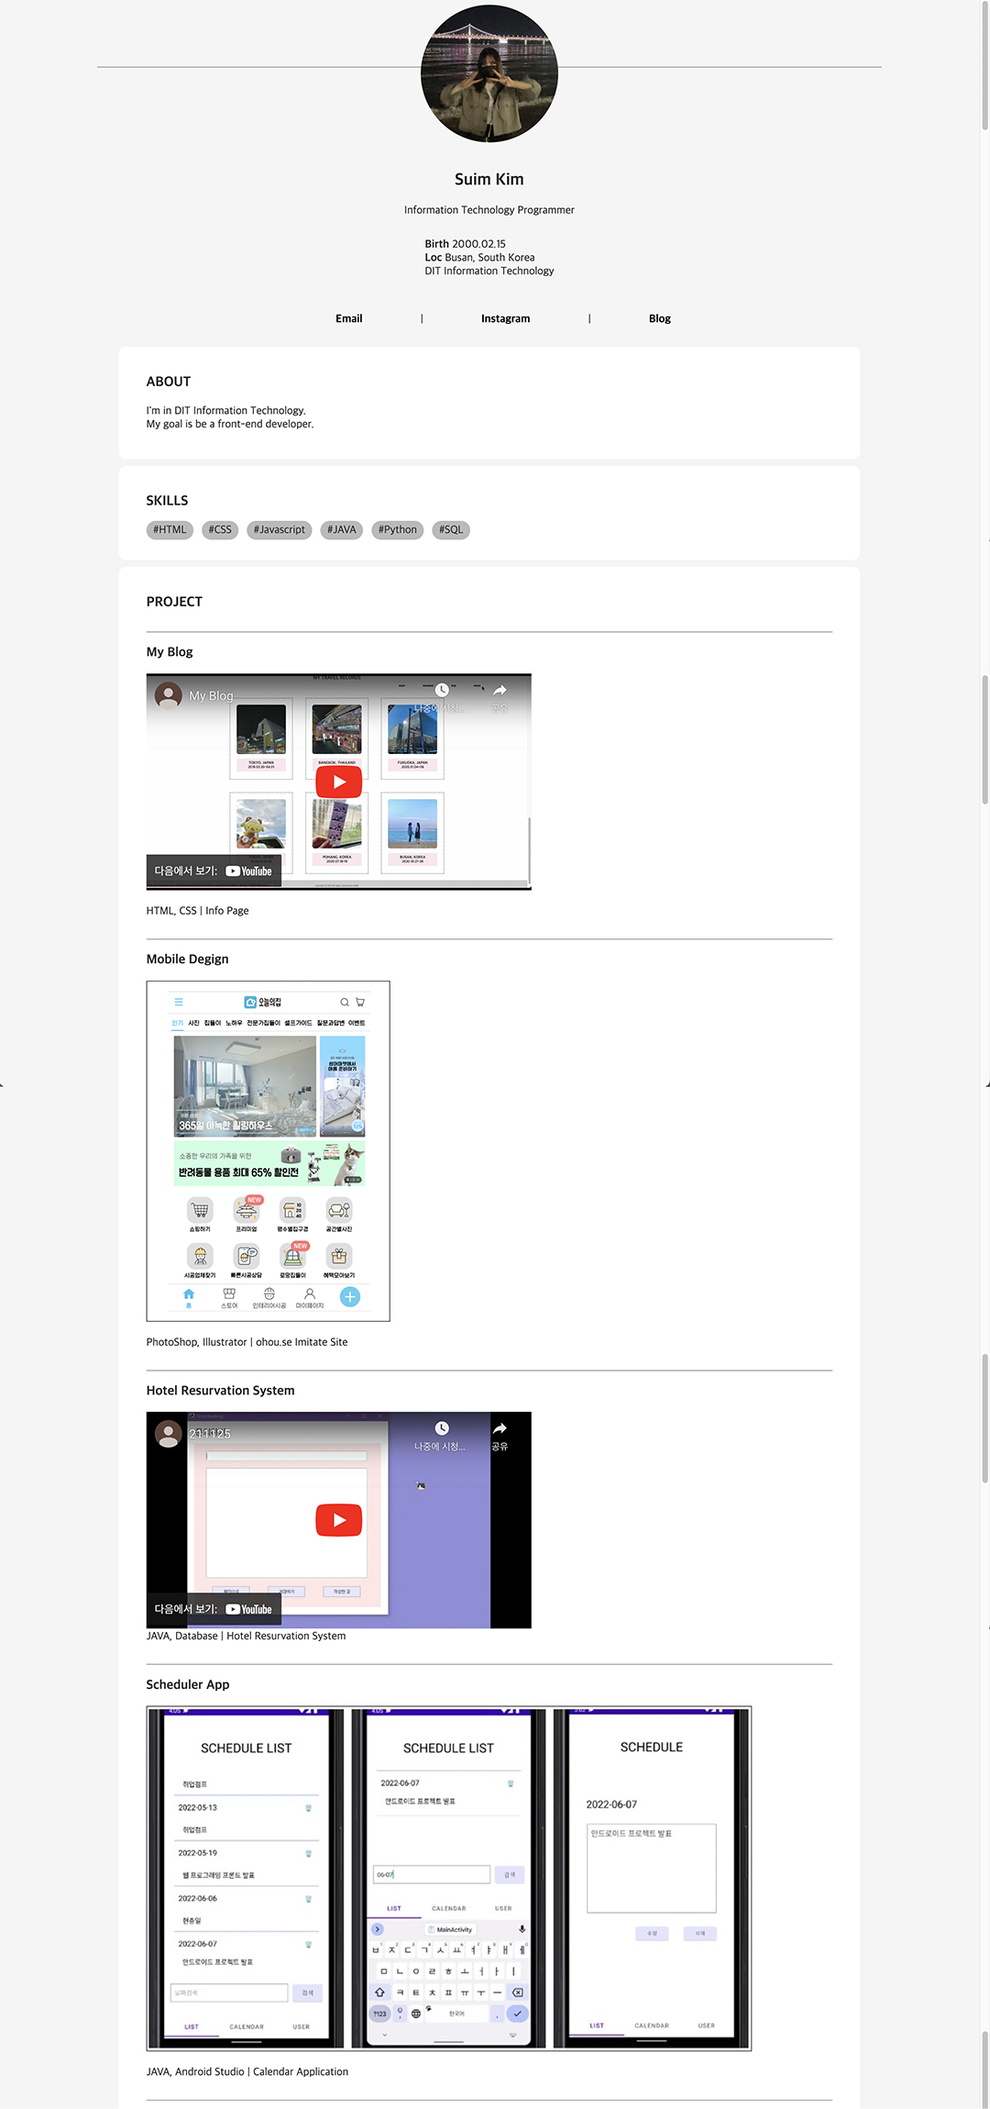
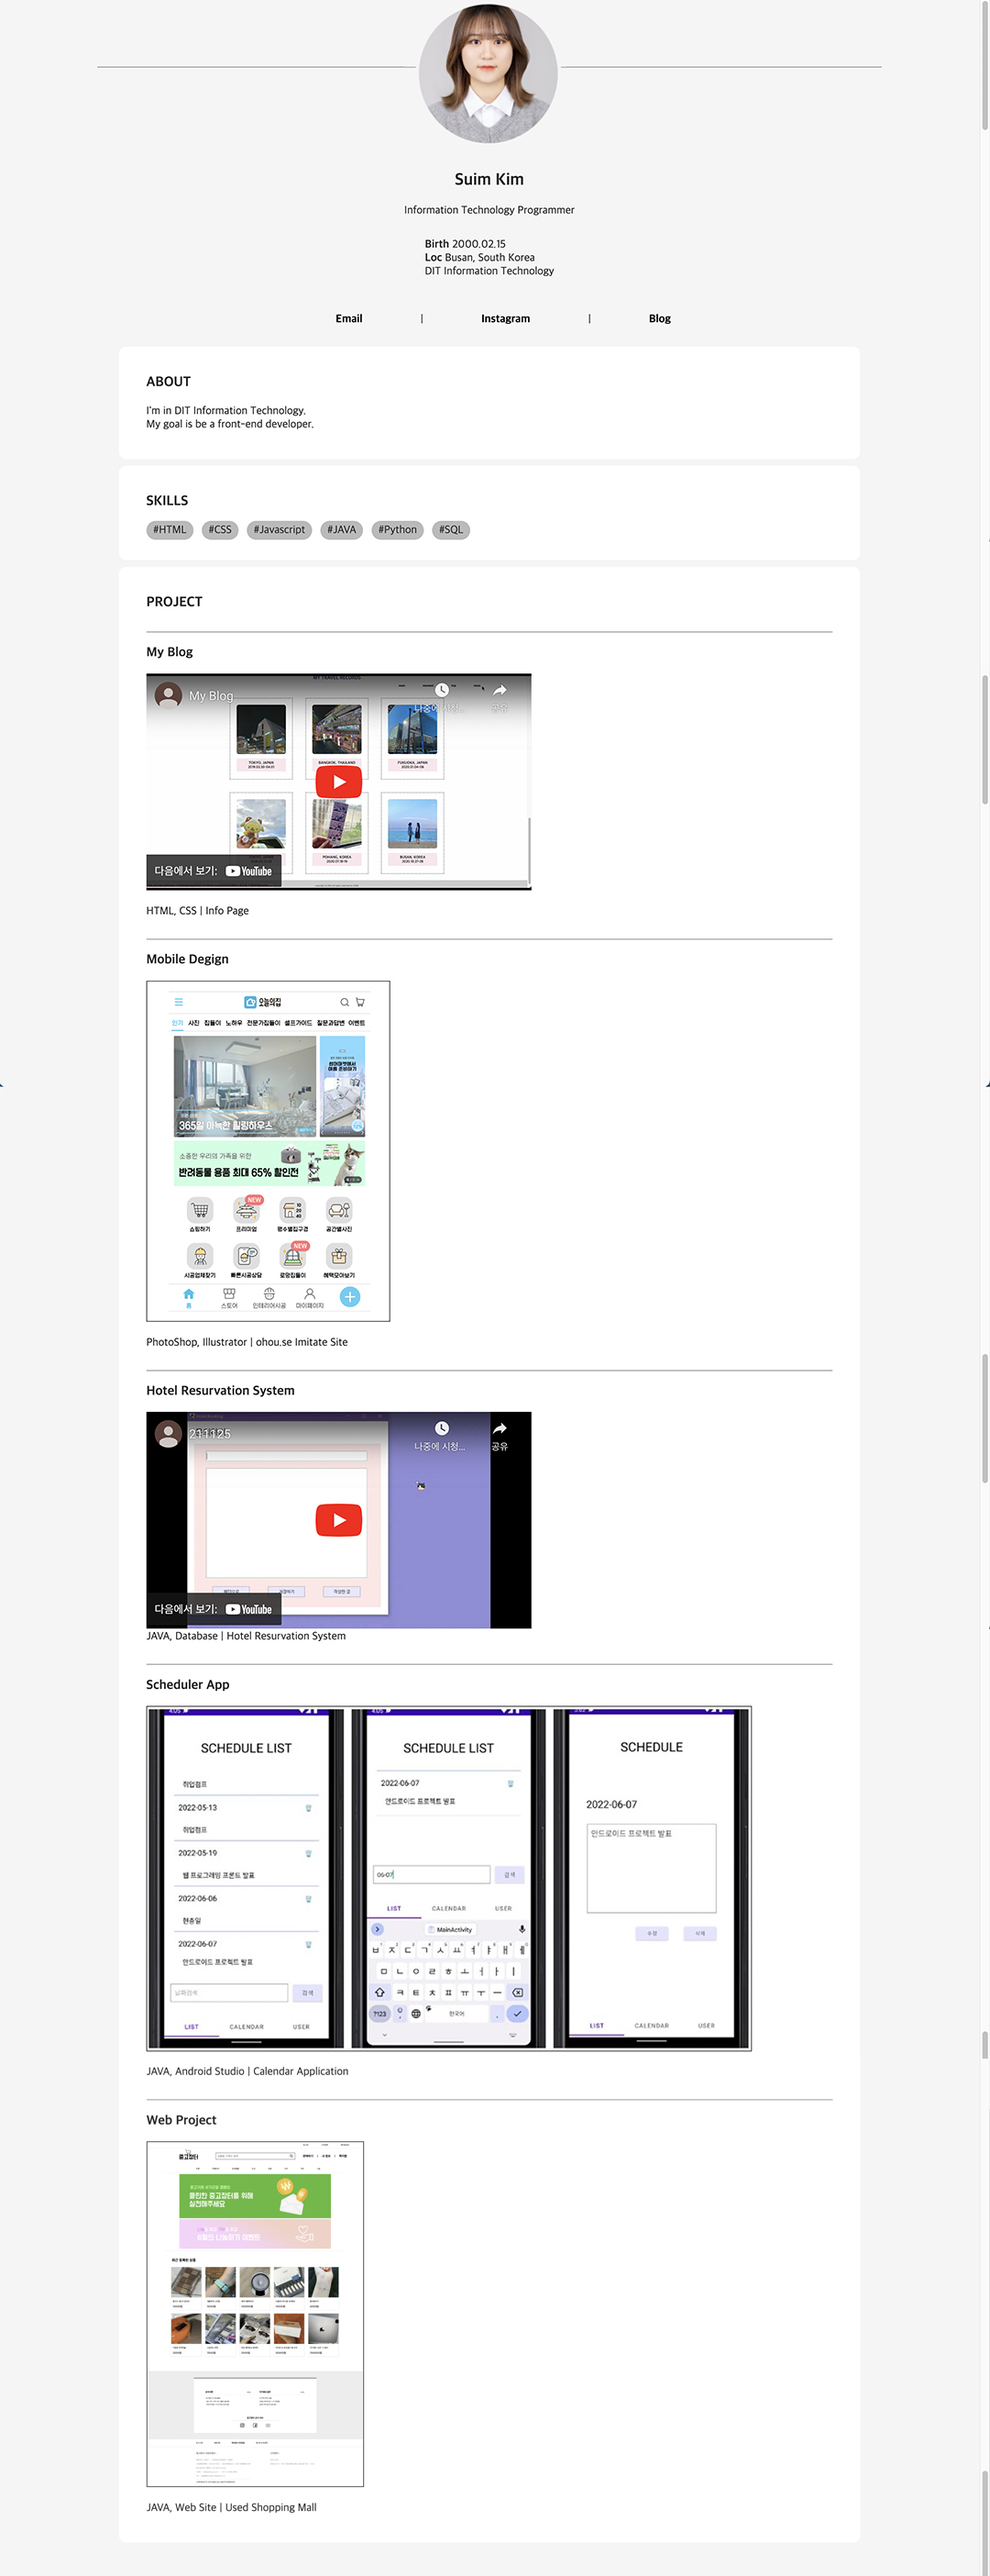
이미지 파일 및 코드 수정

diff --git a/index.html b/index.html
@@ -11,7 +11,7 @@
 <body>
     <section class="title">
         <hr class="mainimgline">
-        <div class="mainimg"><img src="img/IMG_1777.jpg" alt="프사"></div>
+        <div class="mainimg"><img src="img/IMG_6500 2.JPG" alt="프사"></div>
     </section>
     <section class="myinfo">
         <h1>Suim Kim</h1>
@@ -76,7 +76,7 @@
         <hr>
         <div class="project">
             <h3>Web Project</h3>
-            <!--<video src=""></video>-->
+            <img class="pp" src="img/jsp.jpg" alt="">
             <p>JAVA, Web Site | Used Shopping Mall</p>
         </div>
     </section>

diff --git a/index.css b/index.css
@@ -44,13 +44,16 @@ p{
     width: 100%;
     text-align: center;
     position: absolute;
-    top: 10px;
+    top: 5px;
 }
 .mainimg img{
     width: 200px;
     height: 200px;
-    border-radius: 100px;
+    border-radius: 105px;
     display: inline;
+    object-fit: cover;
+    border: 5px solid #f5f5f5;
+
 }
 
 .myinfo{

diff --git a/index(m).css b/index(m).css
@@ -44,13 +44,16 @@ p{
     width: 100%;
     text-align: center;
     position: absolute;
-    top: 10px;
+    top: 5px;
+    
 }
 .mainimg img{
     width: 100px;
     height: 100px;
     border-radius: 100px;
     display: inline;
+    object-fit: cover;
+    border: 2px solid #f5f5f5;
 }
 
 .myinfo{
